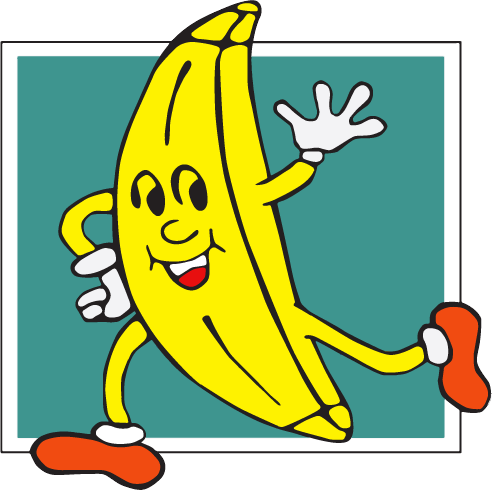
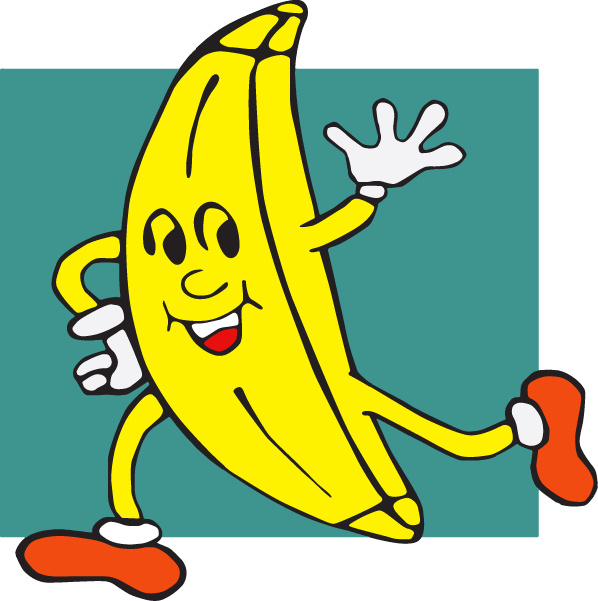
Add tablet changes to images

Changed region(s): [[0.0, 0.0, 0.9756, 1.0], [0.9756, 0.7653, 1.0, 0.8265]]

diff --git a/css/main.css b/css/main.css
@@ -254,3 +254,27 @@ h4 {
     box-shadow: 0 4px 4px 0 rgba(0, 0, 0, 0.2);
     margin: 0.25em 0;
 }
+
+@media all and (min-width: 600px) {
+    #images::after {
+        content: "";
+        clear: both;
+        display: block;
+    }
+    #image1 {
+        width: 49%;
+        float: left;
+    }
+
+    #image2 {
+        width: 49%;
+        float: right;
+    }
+
+    #image3 {
+        width: 100%;
+        border: 10px solid white;
+        box-shadow: 0 4px 4px 0 rgba(0, 0, 0, 0.2);
+        margin: 0.5em 0;
+    }
+}
